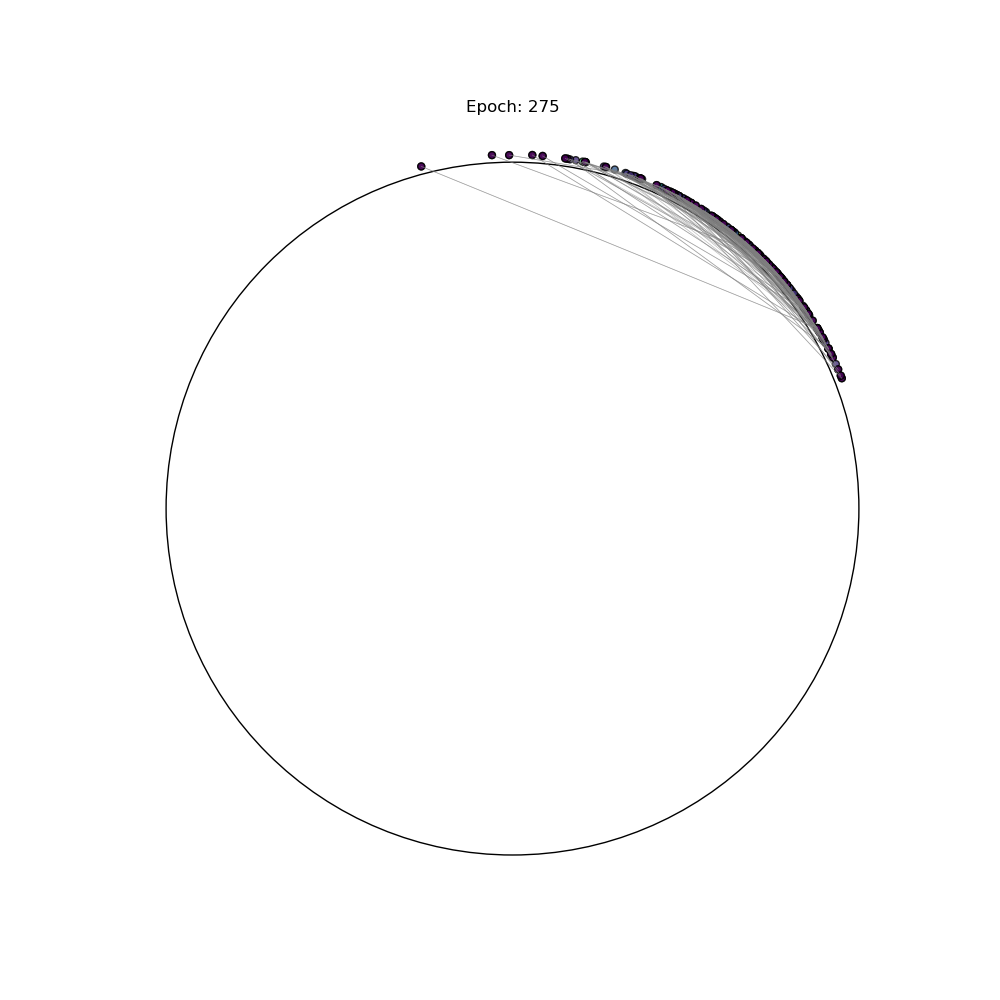
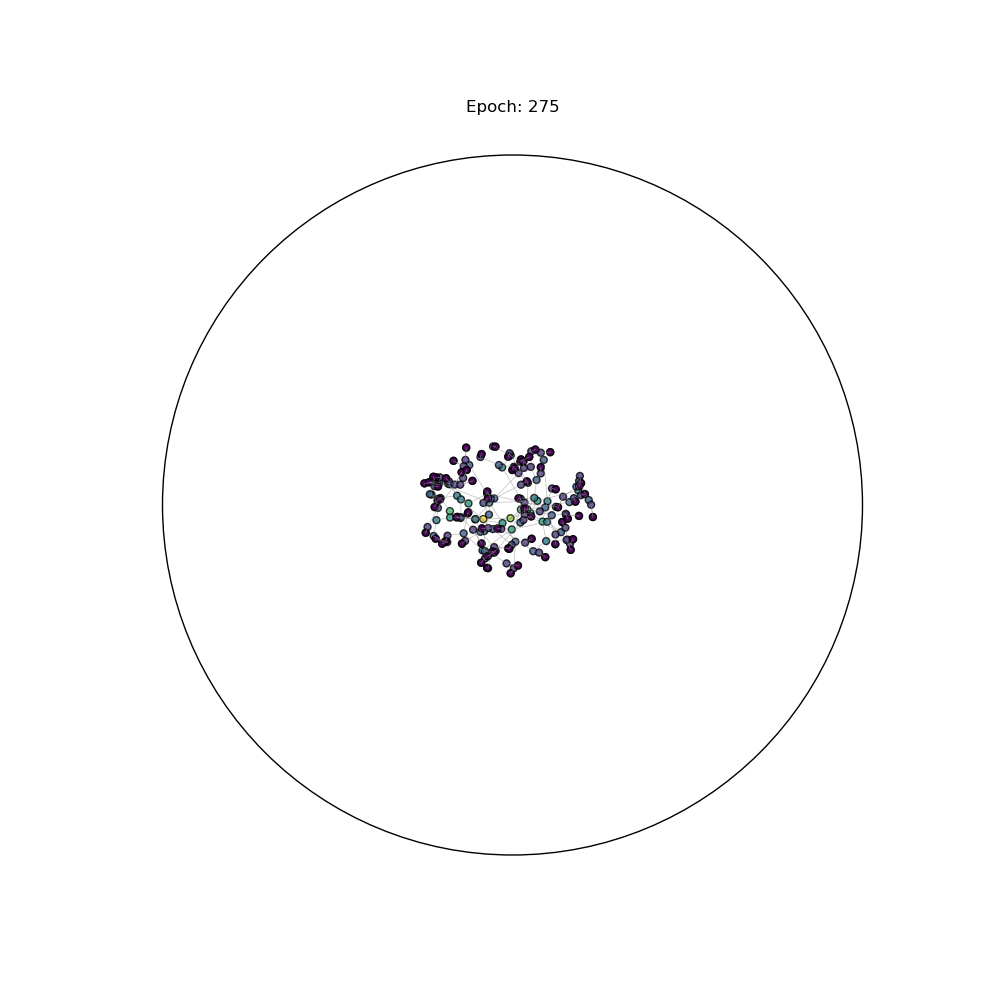
retrained

diff --git a/minimal/train_hyper_synth.py b/minimal/train_hyper_synth.py
@@ -96,7 +96,7 @@ fermis = []
 fig = plt.figure(figsize=(10, 10))
 ax = fig.add_subplot(111)
 
-epochs = 500
+epochs = 1500
 
 optimizer = optim.Adam(model.parameters(), lr=1e-3, weight_decay=1e-5)
 

diff --git a/minimal/readme.md b/minimal/readme.md
@@ -1,3 +1,3 @@
 Heavily forked from the original [Chami repo](https://github.com/HazyResearch/hgcn), designed to be a minimal reproducing example of a basic HGCN. 
 
-![Example output](img/499.png)
+![Example output](img/1499.png)
